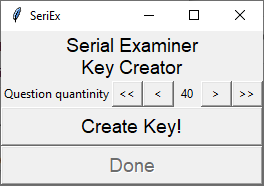
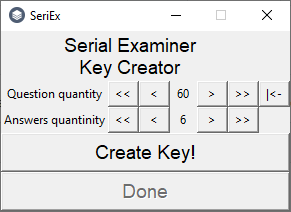
Update README

diff --git a/README.md b/README.md
@@ -32,11 +32,12 @@ Let's suppose that your students can use computers to make .txt file with answer
 
 2. Run SerialExaminer and create or import exam key file (\*.exkey).
    - If you create exam key...
-     - Provide the exact number of questions in the exam and hit `Create key!` button
+     - Provide the exact number of questions and answers in the exam and hit `Create key!` button
 
      ![Key parameters](docs/img/key_parameters.png)
+     > Now the key creator supports the number of answers from 4 to 12, future updates will gradually expand this range until they finally remove this restriction
 
-     - Provide an answer to the question asked. If you make a mistake you can go back using the `<` button. Window will disappear automatically after entering the last answer
+     - Provide answers to questions about the given number. If you make a mistake you can go back using the `<` button. Window will disappear automatically after entering the last answer
 
      ![Key answers](docs/img/key_ans.png)
 
